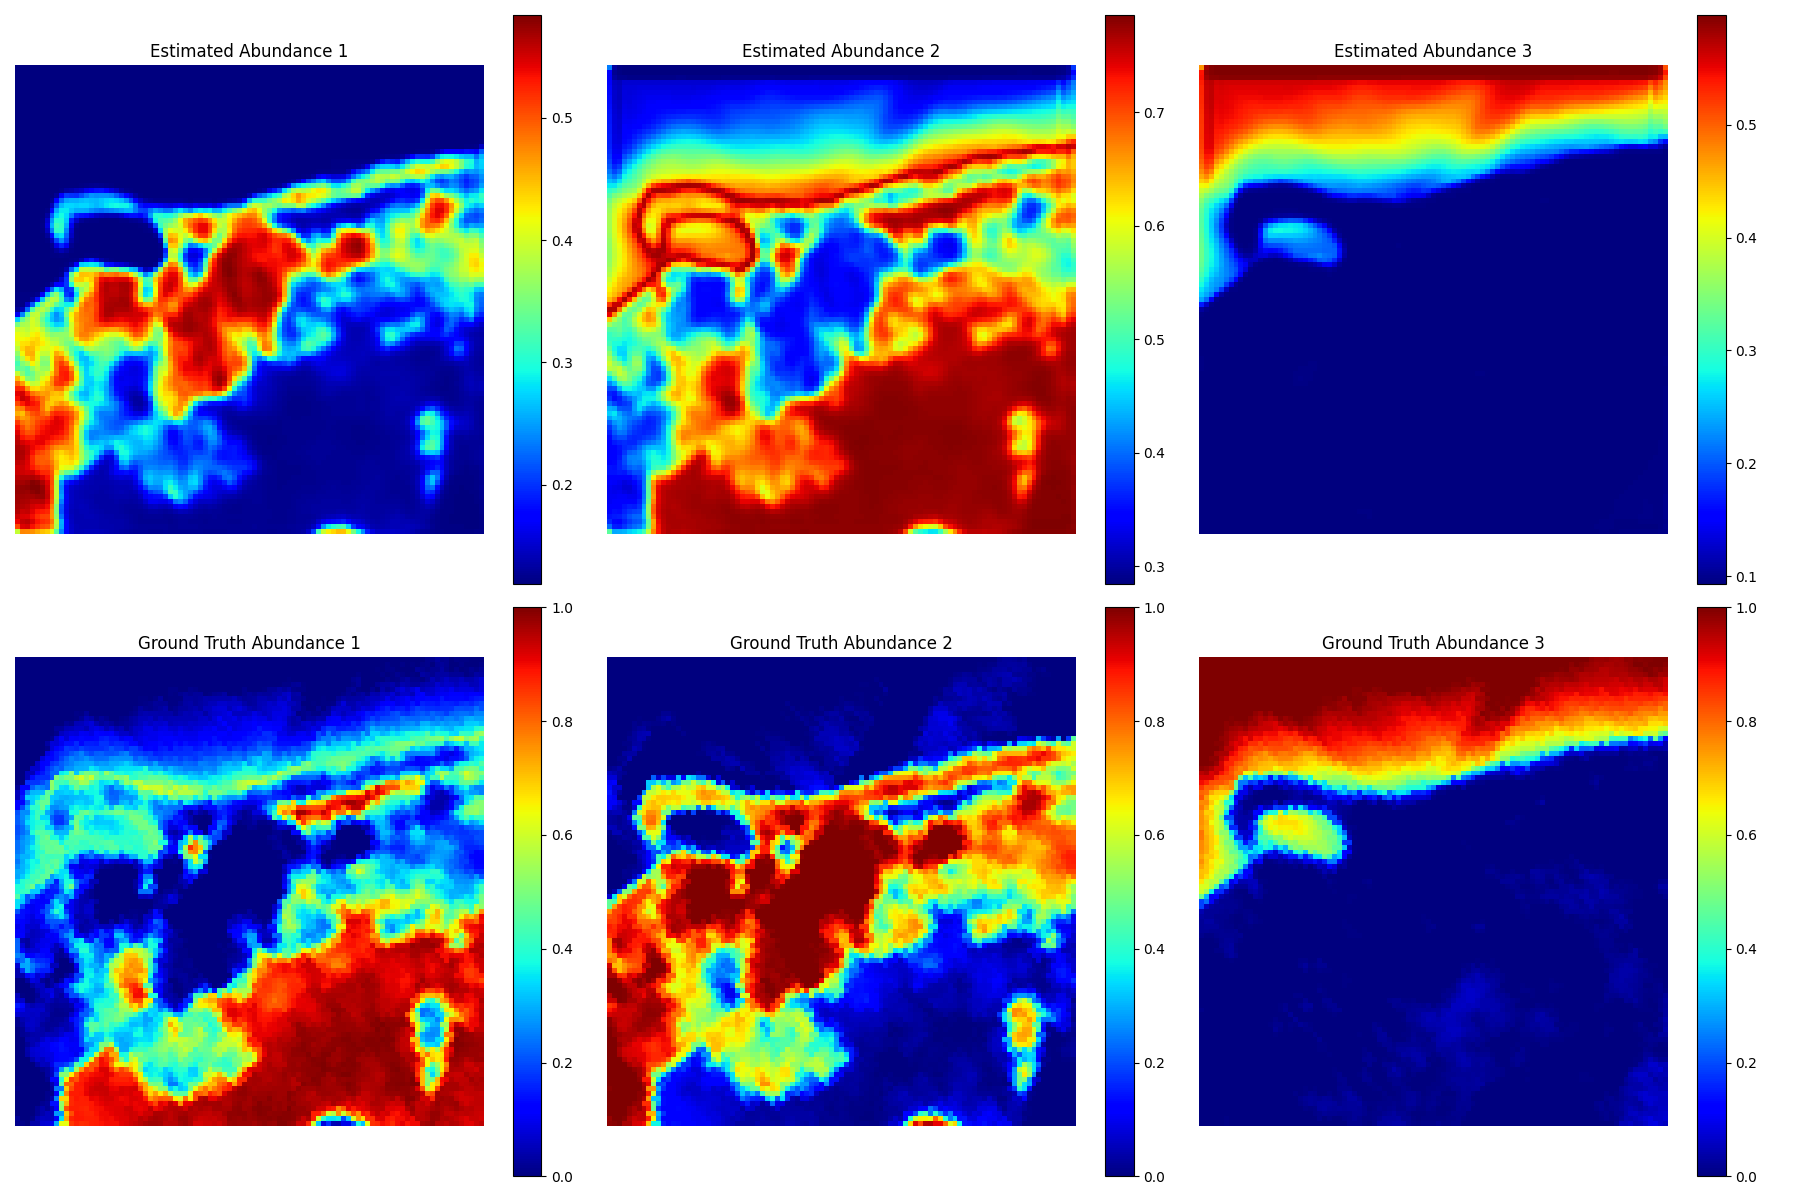
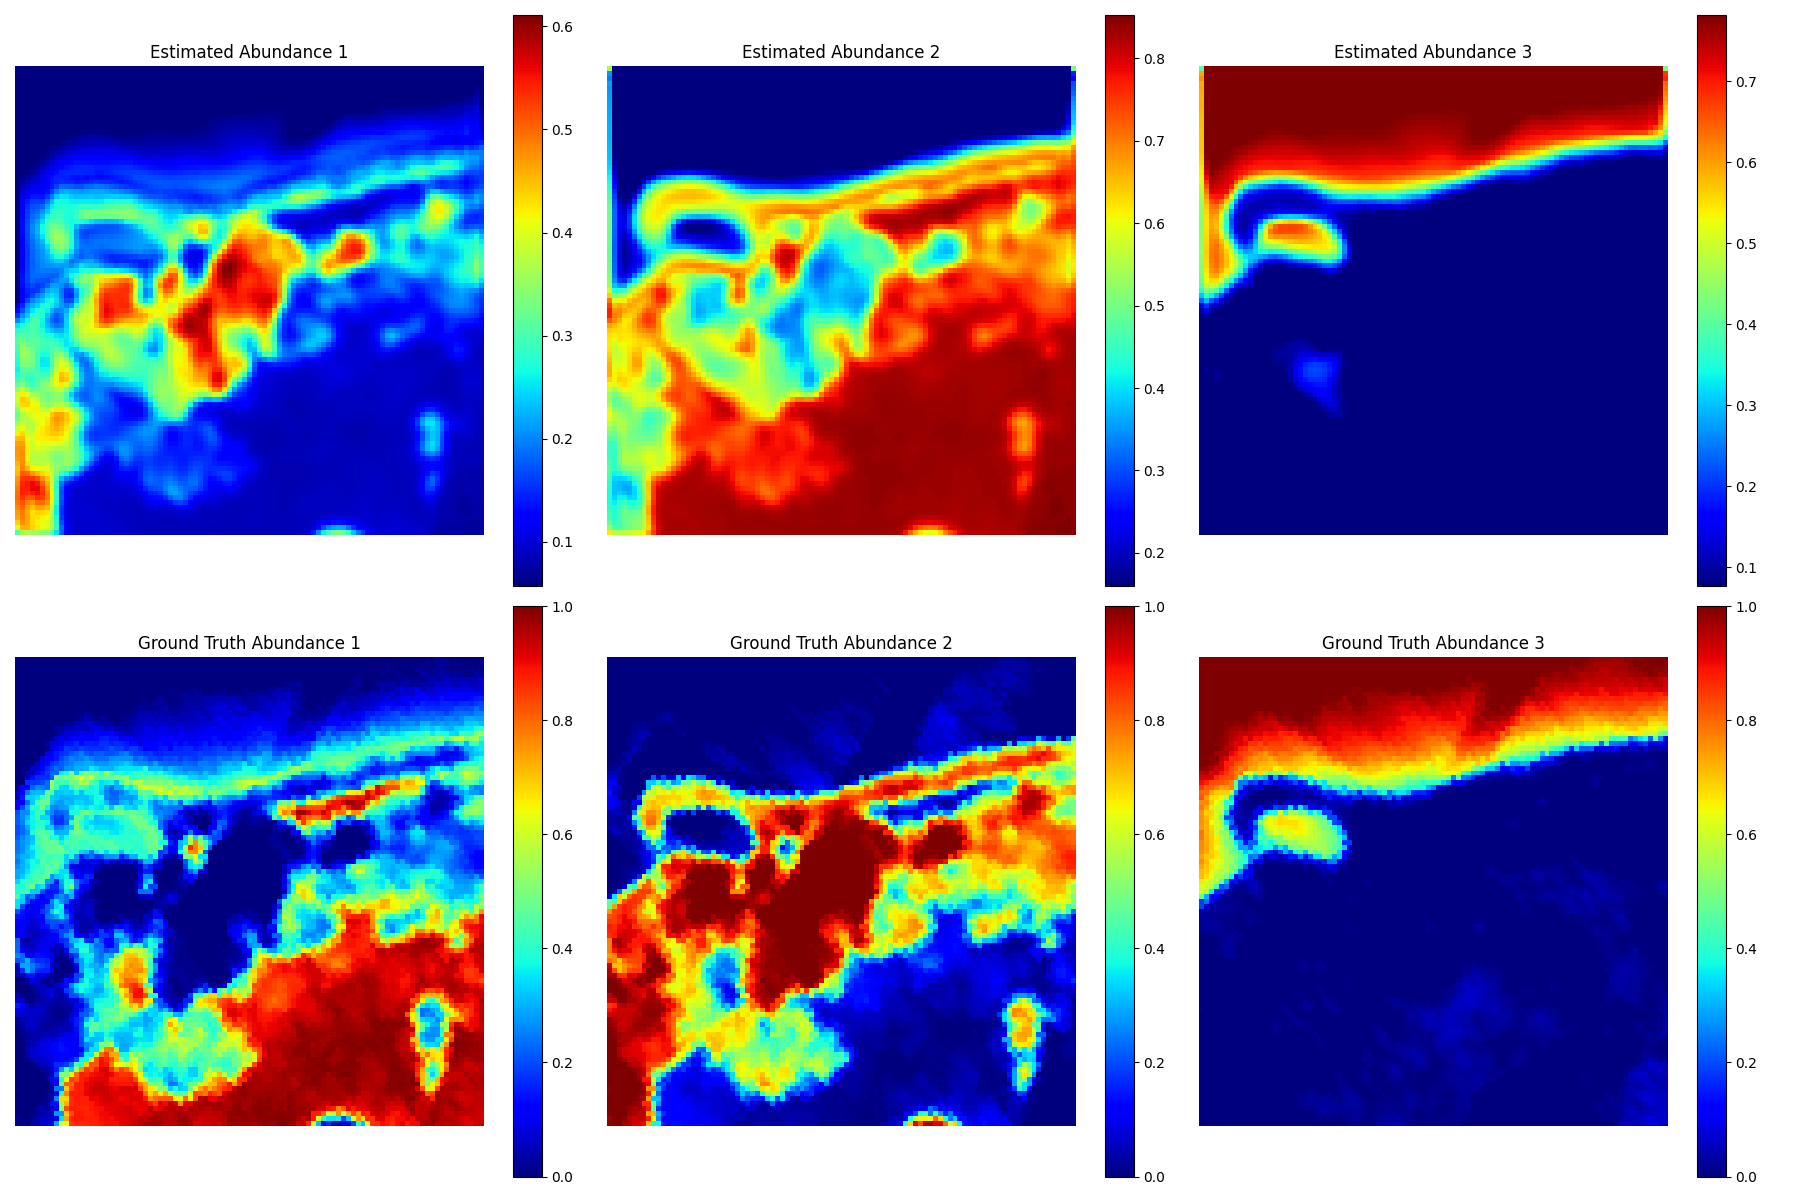
Refactor: Improve numerical stability and GAT encoder training

diff --git a/hsu.py b/hsu.py
@@ -248,7 +248,9 @@ class CrossAttentionFusion(nn.Module):
         SG_hat = self.beta * FC * SC + SG
 
         # Final fusion
-        S = F.softmax(SG_hat + SC_hat, dim=1)
+        S_raw = SG_hat + SC_hat
+        S = torch.clamp(S_raw, min=1e-8)
+        S = S / (torch.sum(S, dim=1, keepdim=True) + 1e-8)
         return S
 
 # ==========================================
@@ -422,7 +424,7 @@ class MSGACD_Unmixer(nn.Module):
         self.pcr = InterSuperpixelPCR()
         self.decoder = ACDEDecoder(num_endmembers, num_bands, init_M=init_M)
 
-        self.alpha_pcr = nn.Parameter(torch.tensor(0.5))
+        self.alpha_pcr = nn.Parameter(torch.tensor(0.3))
 
         self.H = H
         self.W = W
@@ -677,7 +679,14 @@ def train_unmixer(data_path=None, endmember_path=None):
     for epoch in range(epochs):
         optimizer.zero_grad()
 
-        model.warmup_enabled = (epoch < 50)
+        if epoch < 60:
+            for p in model.gat_encoder.parameters():
+                p.requires_grad = False
+        else:
+            for p in model.gat_encoder.parameters():
+                p.requires_grad = True
+
+        model.warmup_enabled = False
 
         if epoch < 50:
             model.decoder.M.requires_grad = False
